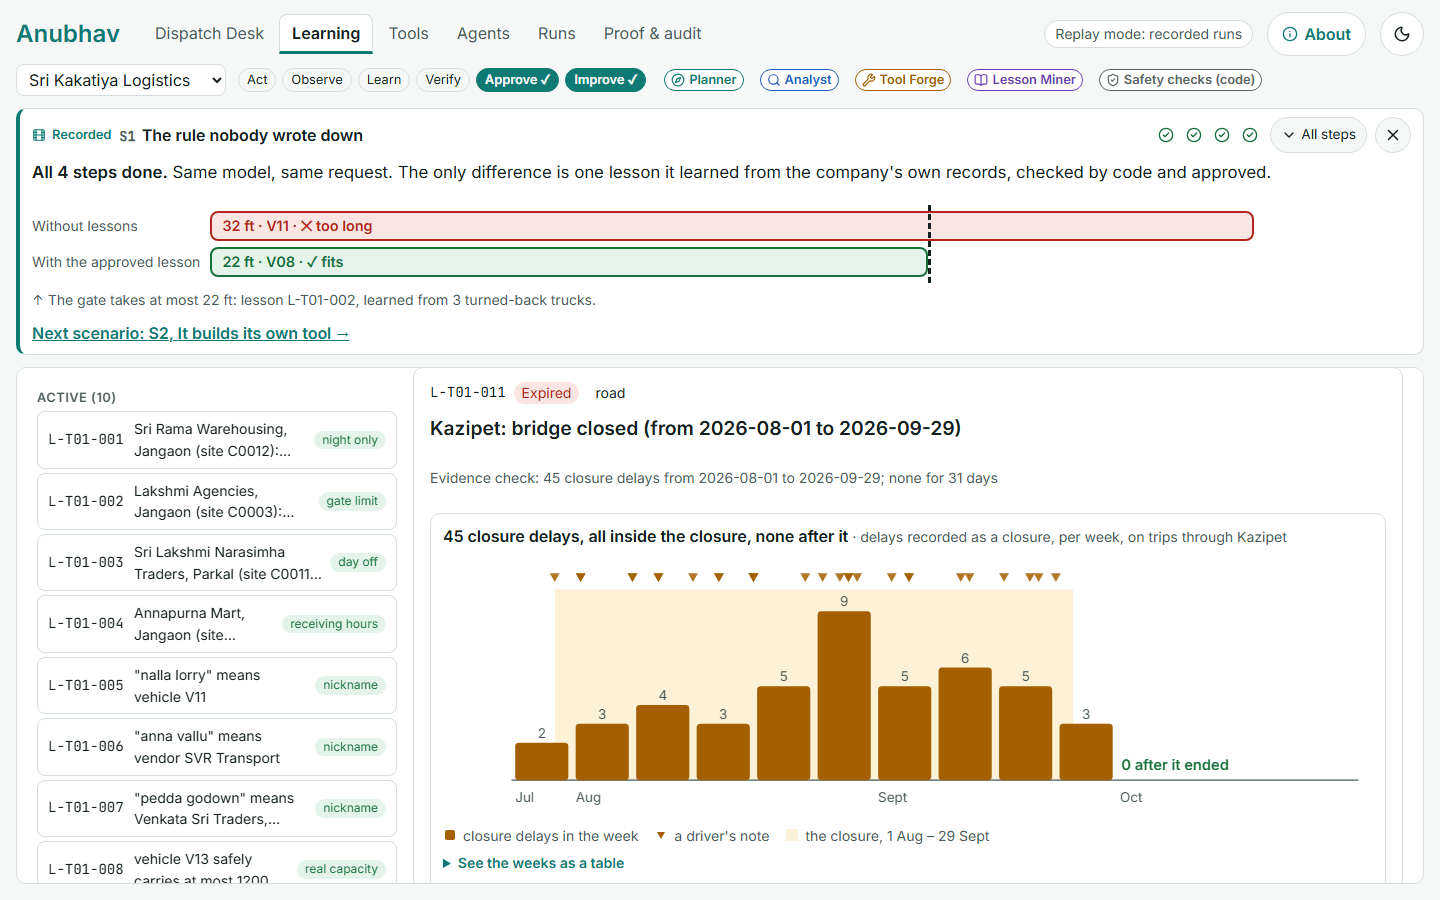
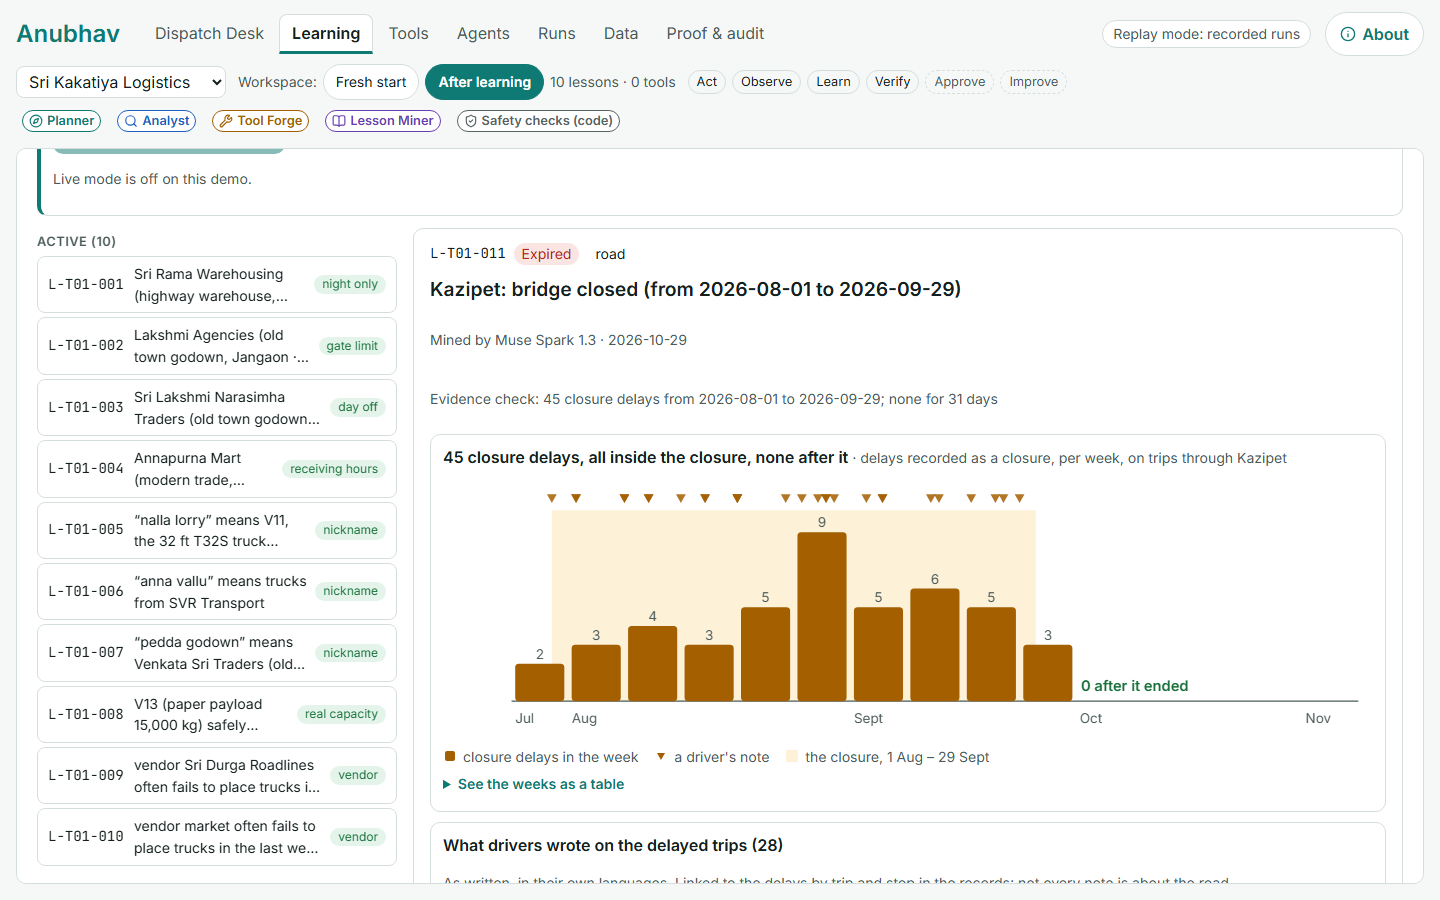
README for good viewing: a centred header with badges, quick links, the headline results on both models and a contents line; fresh screenshots from the current app (a gallery of Runs, Agents, Tools, Kazipet, Proof and the claims); all eleven scenarios listed; unused screenshots removed

diff --git a/README.md b/README.md
@@ -1,14 +1,36 @@
+<div align="center">
+
 # Anubhav
 
-> Built during the **Meta Global AI Developer Hackathon** (Oct 26 – Nov 4, 2026) · Indie track · *Push the Frontier*
+**AI agents that learn the rules a business never wrote down, from its own records, and plan safer because of it.**
 
-**An agent that learns a business's unwritten rules from its own records, and gets safer because of it.** A regional logistics dispatcher asks in Telugu, Roman Telugu or English, by text or voice. The agent plans a draft trip with generic tools over the company's data. Behind it, Meta Muse mines the company's trip history for rules nobody wrote down. Code checks the evidence, a person approves, and the next plan uses the lesson. Approved regional knowledge can be shared with a new company without leaking anything private. *Anubhav* means "experience".
+*Same model. Verified experience. Safer plans.* · *Anubhav* means "experience"
 
-*Same model. Verified experience. Safer plans.*
+[![Live demo](https://img.shields.io/badge/Live_demo-Hugging_Face_Space-FFD21E?logo=huggingface&logoColor=black)](https://huggingface.co/spaces/KPrashanth/anubhav)
+[![Meta Muse](https://img.shields.io/badge/Built_on-Meta_Muse-0866FF?logo=meta&logoColor=white)](#meta-ai-used)
+[![Hackathon](https://img.shields.io/badge/Meta_Global_AI_Hackathon-Indie_·_Push_the_Frontier-6E40C9)](docs/Project_Guide.md#hackathon-rules-audit)
+[![Experiments](https://img.shields.io/badge/Experiments-24_pre--registered-2EA44F)](docs/trackers/experiments.md)
+[![License: MIT](https://img.shields.io/badge/License-MIT-lightgrey)](LICENSE)
 
-**Try it:** **[huggingface.co/spaces/KPrashanth/anubhav](https://huggingface.co/spaces/KPrashanth/anubhav)** (start with S0, *Start from nothing*).
+**[Try it live](https://huggingface.co/spaces/KPrashanth/anubhav)** · **[Project guide](docs/Project_Guide.md)** · **[Experiments](docs/trackers/experiments.md)** · **[How it works](#how-it-works)** · **[What's next](#whats-next)**
 
-**Read the whole project in one place:** [docs/Project_Guide.md](docs/Project_Guide.md): the hackathon rules and how each is met, the architecture, the agent team, the learning loop, every experiment, the data and what's next, with diagrams.
+<img src="web/readme-assets/s1-done.png" alt="The same request without and with the approved lesson: a 32 ft truck drawn past the gate's 22 ft limit, then a 22 ft truck" width="860">
+
+</div>
+
+> Built solo by **Katakam Prashanth** during the **Meta Global AI Developer Hackathon** (Oct 26 – Nov 4, 2026), Indie track, problem statement *Push the Frontier*. Every commit is in this repository's history from Oct 27.
+
+A regional logistics dispatcher asks in Telugu, Roman Telugu or English, by text or voice. A team of Muse agents plans a draft trip with generic tools over the company's data. Behind it, Meta Muse mines the company's trip history for rules nobody wrote down; **code checks the evidence, a person approves, and the next plan uses the lesson.** Approved regional knowledge can be shared with a new company without leaking anything private.
+
+| With approved lessons | Muse Spark Open | Muse Spark 1.3 |
+|---|---|---|
+| Unwritten-rule cases correct | **48% → 90%** (EXP-011R) | **45% → 90%** (EXP-015) |
+| A new company on day 1 | **33% → 100%** | **33% → 100%** |
+| Unsafe drafts | **0** | **0** |
+
+<sub>3 of 3 repeats on an unseen generated world each; every plan and pass bar was frozen by hash before the first model call. Failures are reported too: see the [limitations](#limitations).</sub>
+
+**Contents:** [The problem](#the-problem) · [How I got here](#how-i-got-here) · [Results](#results-pre-registered-files-frozen-by-hash-before-any-model-call-read-the-limitations) · [How it works](#how-it-works) · [Meta AI used](#meta-ai-used) · [Try it](#try-it) · [Repository layout](#repository-layout) · [What's next](#whats-next) · [Built during the hackathon](#built-during-the-hackathon)
 
 ## The problem
 A dispatcher near Warangal knows that a 32 ft truck can't get into one Jangaon godown. That rule isn't in any system. It lives in a driver's note from a failed trip and in the dispatcher's head. An AI agent connected to the company's data passes every check and still sends the 32 ft truck.
@@ -172,7 +194,7 @@ Every result in the app carries a label saying which model produced it. Muse Voi
 
 An earlier replay-only version: [anubhav-metahackathon.streamlit.app](https://anubhav-metahackathon.streamlit.app/).
 
-**Seven scenarios to try.** The web app opens on them; add `/?tour=S0` … `/?tour=S6` to its address to open one directly.
+**Eleven scenarios to try.** The web app opens on them; add `/?tour=S0` … `/?tour=S10` to its address to open one directly.
 
 | | Scenario | Kind | What you see |
 |---|---|---|---|
@@ -183,10 +205,14 @@ An earlier replay-only version: [anubhav-metahackathon.streamlit.app](https://an
 | S6 | Roads change: the Kazipet bridge | recorded data, free | Drivers' notes in Telugu and English, 45 closure delays all inside the closure and none after it, and a lesson that expired on arrival |
 | S4 | Your lessons, your call | live, Muse Spark 1.3 | Retire the gate rule and the live plan goes back to 32 ft; Undo, and it picks 22 ft. Approve or reject the live draft |
 | S5 | Try to break it | live, Muse Spark 1.3 | Ask it to dispatch now, overload a truck, deliver at the wrong time, or use the company's nicknames |
+| S7 | Plan tomorrow's whole day | live, Muse Spark 1.3 | Every open order gets a draft truck in one request, each checked by code; you approve one and reject one |
+| S10 | Look at the week ahead | live, Muse Spark 1.3 | Tool Forge totals the week's open orders in one query; the Planner plans the busiest day as drafts |
+| S8 | Ask about your business | live, Muse Spark 1.3 | A data question no tool answers: the Planner hands it to Tool Forge, which answers with one read-only query |
+| S9 | Ask by voice, in Telugu | live, Muse Spark 1.3 | Speak the request; Muse Voice Transcribe turns it into text |
 
 Recorded scenarios replay real runs. Live ones need the `meta_api` key on the host; the header shows how many live runs are left.
 
-![S1 finished: the same request without and with the approved lesson, both trucks drawn against the gate's 22 ft limit](web/readme-assets/s1-done.png)
+![Learning: the Lakshmi Agencies gate lesson with every trip to the site by truck length, the three turned-back 32 ft trucks and the 22 ft limit it learned](web/readme-assets/learning.png)
 
 **The main tabs:**
 - **Dispatch Desk:** the chat and the scenarios, with the company's orders, route plans, fleet, profile and ledger beside them.
@@ -196,7 +222,17 @@ Recorded scenarios replay real runs. Live ones need the `meta_api` key on the ho
 - **Runs:** every run step by step, one lane per agent, with a real mistake the agent fixed itself and the raw record.
 - **Proof & audit:** the benchmarks, and every pre-registered experiment from plan to result commit, the failed ones included.
 
-![Runs: the team run as one lane per agent, with the work each agent did](web/readme-assets/runs.png)
+**More of the app** (screenshots from the hosted demo in replay mode):
+
+| | |
+|---|---|
+| ![Runs: a run as one lane per agent, each tool call with what it sent and got back](web/readme-assets/runs.png) | ![Agents: the four agents, their tools, skills and versions](web/readme-assets/agents.png) |
+| **Runs:** every run step by step, one lane per agent | **Agents:** each agent's own tools, skills and what has been measured |
+| ![Tools: a repeated question checked by code and offered as a tool](web/readme-assets/tools.png) | ![Kazipet: the bridge closure's delays week by week, with drivers' notes](web/readme-assets/kazipet.png) |
+| **Tools:** a repeated question becomes a tool after code checks and a person approves | **Learning over time:** the Kazipet closure, and a lesson that expired on arrival |
+| ![Proof: the benchmark scoreboard with every pre-registered experiment](web/readme-assets/proof.png) | ![Check the claims: each experiment from plan commit to result commit](web/readme-assets/claims.png) |
+| **Proof & audit:** all 24 experiments, the failed ones marked | **Check the claims:** plan commit, then result commit, for each |
+
 
 **Locally:**
 ```bash
